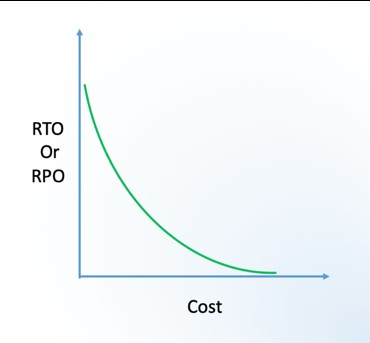
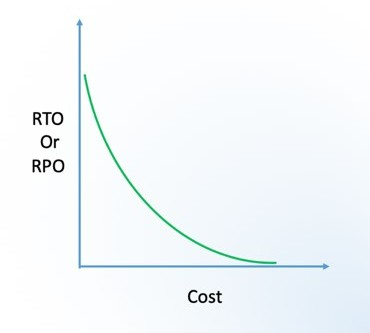
border updated

diff --git a/src/Components/LearnMore/Ds9s/Ds9s.js b/src/Components/LearnMore/Ds9s/Ds9s.js
@@ -9,7 +9,12 @@ const Ds9s = () => {
             <h1 className='text-center text-primary'>Contribution of Ds in 9s</h1> <br />
 
             <div className='text-center'>
-                <img className='col-lg-8 w-50 img-fluid' style={{ boxShadow: 'rgba(3, 102, 214, 0.3) 0px 0px 0px 3px' }} src={ds9sCover} alt="" />
+                <img className='col-lg-8 w-50 img-fluid'
+                    style={{
+                        boxShadow: 'rgba(3, 102, 214, 0.3) 0px 0px 0px 3px',
+                        borderRadius: '8px'
+                    }}
+                    src={ds9sCover} alt="" />
             </div>
 
             <div className='row my-5'>
@@ -71,7 +76,11 @@ const Ds9s = () => {
 
 
             <div className='text-center'>
-                <img className='col-lg-8 img-fluid w-50' src={graph} alt="" />
+                <img className='col-lg-8 img-fluid w-50' src={graph} alt=""
+                    style={{
+                        boxShadow: 'rgba(3, 102, 214, 0.3) 0px 0px 0px 3px',
+                        borderRadius: '8px'
+                    }} />
             </div>
 
             <div className='row my-5'>

diff --git a/src/Components/LearnMore/Xrobo/Xrobo.js b/src/Components/LearnMore/Xrobo/Xrobo.js
@@ -12,7 +12,12 @@ const Xrobo = () => {
             </div>
 
             <div className='text-center'>
-                <img className='img-fluid col-lg-8 w-50' style={{ boxShadow: 'rgba(3, 102, 214, 0.3) 0px 0px 0px 3px' }} src={xRoboBody} alt="" />
+                <img className='img-fluid col-lg-8 w-50'
+                    style={{
+                        boxShadow: 'rgba(3, 102, 214, 0.3) 0px 0px 0px 3px',
+                        borderRadius: '8px'
+                    }}
+                    src={xRoboBody} alt="" />
             </div>
 
             <div className='row my-5'>
@@ -34,7 +39,12 @@ const Xrobo = () => {
             </div>
 
             <div className='text-center'>
-                <img className='img-fluid col-lg-8 w-25' src={xRoboBody2} alt="" />
+                <img className='img-fluid col-lg-8 w-25'
+                    style={{
+                        boxShadow: 'rgba(3, 102, 214, 0.3) 0px 0px 0px 3px',
+                        borderRadius: '8px',padding:'5px'
+                    }}
+                    src={xRoboBody2} alt="" />
             </div>
 
             <div className='row my-5'>

diff --git a/src/Components/AboutVideo/AboutVideo.js b/src/Components/AboutVideo/AboutVideo.js
@@ -8,17 +8,17 @@ import aboutUsBanner from '../../images/about-us/about-us-banner.jpg'
 const AboutVideo = () => {
     return (
 
-        <div id='about' className="row  video-div ">
+        <div id='about' className="row ">
             <img src={aboutUsBanner} className='img-fluid' alt="" />
             {/* <h4 className='text-center'>About us</h4> */}
 
 
             <div className='row'>
-                <div className='col-lg-6 col-md-6 col-sm-12 p-3 text-center text-div'>
+                <div className='col-lg-6 col-sm-12'>
                     <Slider />
                 </div>
 
-                <div className='col-lg-6 col-sm-12 my-4'>
+                <div className='col-lg-6 col-sm-12'>
 
                     <video src={landingVideo} controls width="560" height="315" className='container-fluid'>
 

diff --git a/src/Components/LearnMore/CloudEngineering/CloudEngineering.js b/src/Components/LearnMore/CloudEngineering/CloudEngineering.js
@@ -47,7 +47,10 @@ const CloudEngineering = () => {
 
 
             <div className='text-center '>
-                <img style={{   boxShadow: 'rgba(3, 102, 214, 0.3) 0px 0px 0px 3px' }}
+                <img style={{
+                    boxShadow: 'rgba(3, 102, 214, 0.3) 0px 0px 0px 3px',
+                    borderRadius: '8px'
+                }}
                     className='img-fluid col-lg-8 w-50'
                     src={pic2} alt="" />
             </div>

diff --git a/src/Components/BgVideo/BgVideo.js b/src/Components/BgVideo/BgVideo.js
@@ -19,9 +19,9 @@ const BgVideo = () => {
                             'Vantage excellence with next generation technologies'],
                         autoStart: true,
                         loop: true,
-                        pauseFor: 1500,
+                        pauseFor: 1000,
                         delay: 100,
-                        deleteSpeed: 10,
+                        deleteSpeed: 7,
 
 
                     }}

diff --git a/src/Components/LearnMore/Monitoring/Monitoring.js b/src/Components/LearnMore/Monitoring/Monitoring.js
@@ -44,7 +44,8 @@ const Monitoring = () => {
 
 
             <div className='text-center'>
-                <img className='img-fluid col-lg-8 w-50 ' src={monitor2} alt="" />
+                <img className='img-fluid col-lg-8 w-50 ' style={{ boxShadow: 'rgba(3, 102, 214, 0.3) 0px 0px 0px 3px' }}
+                    src={monitor2} alt="" />
             </div>
 
 
